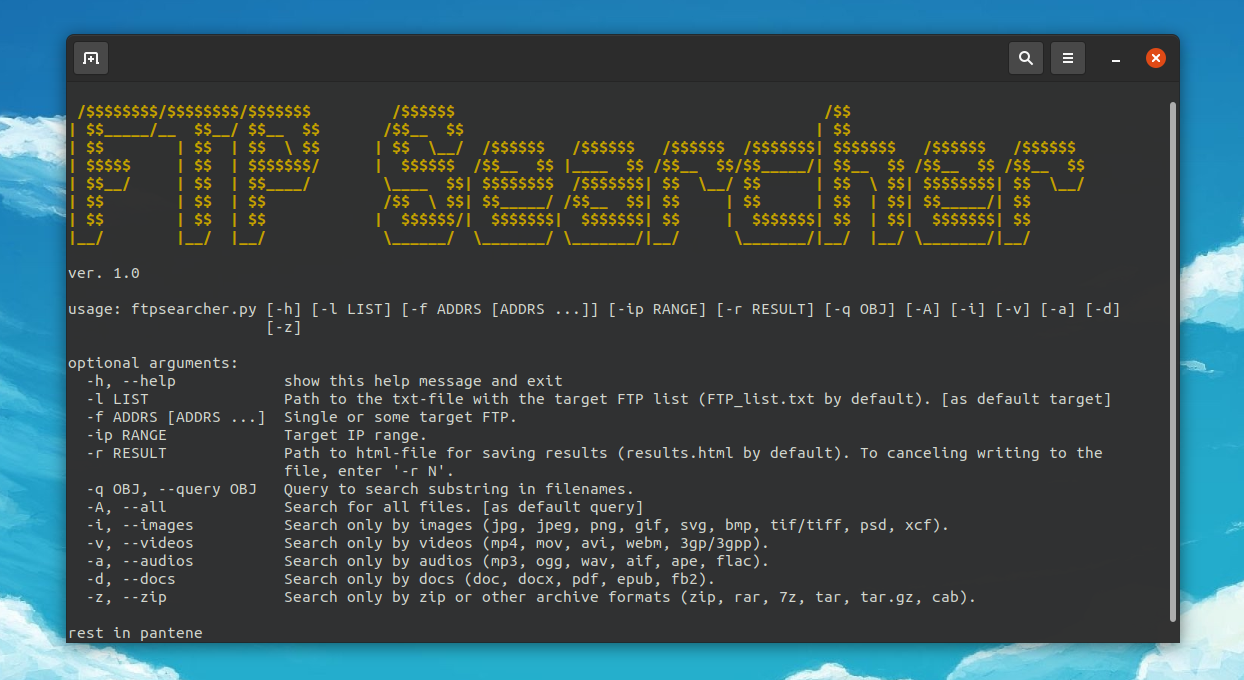
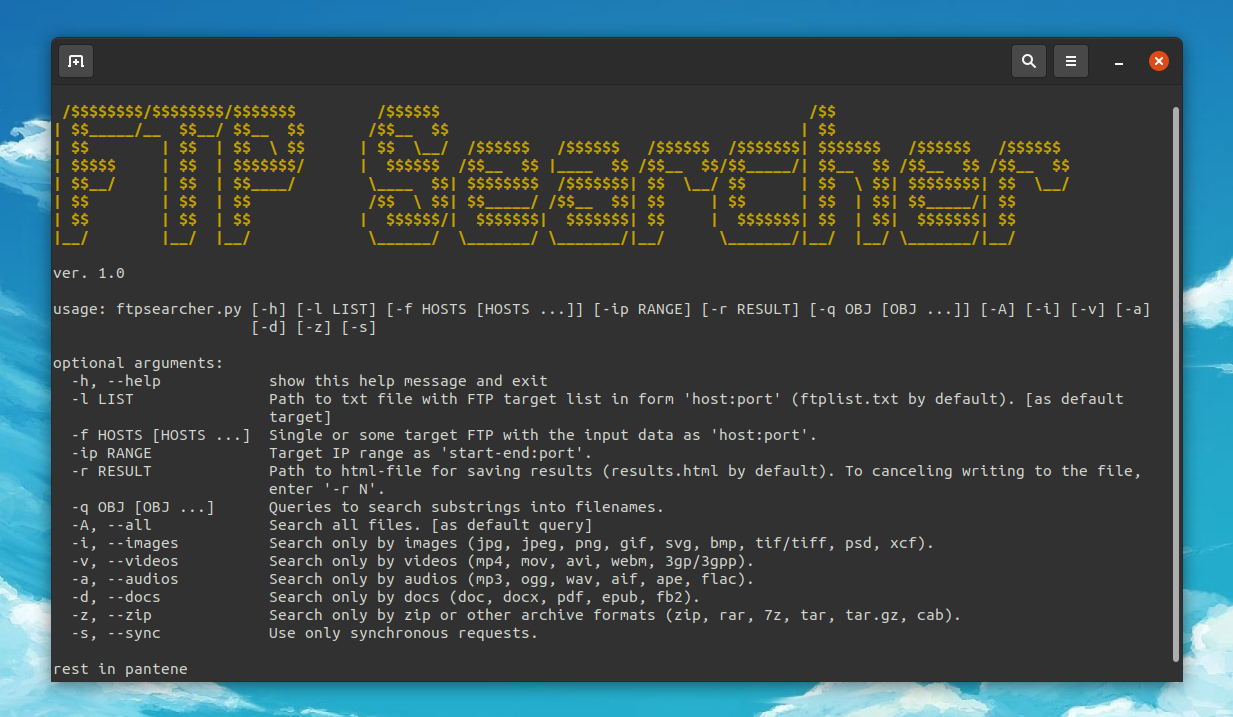
Update

Changed region(s): [[0.0, 0.0309, 1.0, 1.0], [0.9862, 0.9882, 1.0, 1.0]]

diff --git a/ftpsearcher.py b/ftpsearcher.py
@@ -11,16 +11,16 @@ from colorama import Fore, Style, init
 def get_args():
     print("ver. 1.0\n")
     parser = argparse.ArgumentParser(epilog="rest in pantene")
-    parser.add_argument("-l", type=str, dest="list", default="FTP_list.txt",
-            help="Path to the txt-file with the target FTP list (FTP_list.txt by default). [as default target]")
-    parser.add_argument("-f", type=str, dest="addrs", default=False, nargs="+",
-            help="Single or some target FTP.")
+    parser.add_argument("-l", type=str, dest="list", default="ftplist.txt",
+            help="Path to txt file with FTP target list in form 'host:port' (ftplist.txt by default). [as default target]")
+    parser.add_argument("-f", type=str, dest="hosts", default=False, nargs="+",
+            help="Single or some target FTP with the input data as 'host:port'.")
     parser.add_argument("-ip", dest="range", type=str, default=False,
-            help="Target IP range.")
+            help="Target IP range as 'start-end:port'.")
     parser.add_argument("-r", dest="result", type=str, default="results.html",
             help="Path to html-file for saving results (results.html by default). To canceling writing to the file, enter '-r N'.")
-    parser.add_argument("-q", "--query", dest="obj", type=str, default="",
-            help="Query to search substring in filenames.")
+    parser.add_argument("-q", dest="obj", type=str, default="", nargs="+",
+            help="Queries to search substrings into filenames.")
     parser.add_argument("-A", "--all", dest="obj", action="store_const", const="", default="",
             help="Search all files. [as default query]")
     parser.add_argument("-i", "--images", dest="extns", action="store_const", const=('.jpg', '.jpeg', '.png', '.gif', '.svg', '.bmp', '.tif', '.tiff', '.psd', '.xcf'), default=False,
@@ -33,6 +33,8 @@ def get_args():
             help="Search only by docs (doc, docx, pdf, epub, fb2).")
     parser.add_argument("-z", "--zip", dest="extns", action="store_const", const=('.zip', '.rar', '.7z', '.tar', '.tar.gz', '.cab'), default=False,
             help="Search only by zip or other archive formats (zip, rar, 7z, tar, tar.gz, cab).")
+    parser.add_argument("-s", "--sync", dest="sync", action="store_true", default=False,
+            help="Use only synchronous requests.")
     return parser.parse_args()
 
 # searching for a file by filetype with a param or by a substring of an object with a query.
@@ -43,7 +45,10 @@ def searching(name):
     if args.extns != False:
          [results(full_path, syncnumber) for extension in args.extns if full_path.endswith(extension)]
     else:
-        results(full_path, syncnumber) if args.obj in full_path.split("/")[-1] else None
+        if args.obj == '':
+            results(full_path, syncnumber)
+        else:
+            [results(full_path, syncnumber) for object in args.obj if object in full_path.split("/")[-1]]
 
 # ----------------------------------SYNCHRONOUS BLOCK-------------------------------------------------------------------
 # recursively checking all directories that are not files using the MLSD-method, if it can be used.
@@ -83,13 +88,15 @@ def badftp_cycle(maybe_folder):
         pathlist.pop() if len(pathlist) > 1 else None
 
 # connecting to FTP with ftplib.
-def connect(host):
+def connect(host, cnct_port):
     print(Fore.GREEN + "Now it's " + Fore.WHITE + host + Fore.GREEN + " with MLSD.")
     global pathlist
-    pathlist = [host]
+    host_port = host + ":" + str(cnct_port)
+    pathlist = [host_port]
     global ftp
     try:
         ftp = FTP(host, timeout=7)
+        ftp.connect(port=cnct_port)
         ftp.login()
         global syncnumber
         syncnumber = 0
@@ -119,9 +126,9 @@ def connect(host):
 # aioftp connecting and checking.
 async def asyncgetting(host, port, command, asyncnumber):
     try:
-        client = aioftp.Client(socket_timeout=4)
+        client = aioftp.Client()
         async with async_timeout.timeout(4):
-            await client.connect(host)
+            await client.connect(host, port)
             await client.login()
         print(host + Fore.GREEN + " started with asynchronous method: " + Fore.WHITE + command)
         try:
@@ -131,44 +138,48 @@ async def asyncgetting(host, port, command, asyncnumber):
                         for extension in args.extns:
                             if str(path).endswith(extension):
                                 asyncnumber += 1
-                                full_path = str(host) + "/" + str(path)
+                                full_path = str(host) + ":" + str(port) + "/" + str(path)
                                 results(full_path, asyncnumber)
                     else:
-                        if args.obj in str(path).split("/")[-1]:
+                        if args.obj == '':
                             asyncnumber += 1
-                            full_path = str(host) + "/" + str(path)
+                            full_path = str(host) + ":" + str(port) + "/" + str(path)
                             results(full_path, asyncnumber)
+                        for object in args.obj:
+                            if object in str(path).split("/")[-1]:
+                                asyncnumber += 1
+                                full_path = str(host) + ":" + str(port) + "/" + str(path)
+                                results(full_path, asyncnumber)
             print(host + Fore.GREEN + " was getted.")
 
 # exception handling.
         except aioftp.StatusCodeError as iner:
             if str(iner.received_codes) == "('500',)":
                 if str(iner.info) == "[' Unknown command.']":
-                    print(Fore.GREEN + "MLSD is not supported on server " + Fore.WHITE + host + Fore.GREEN + " Trying to use asynchronous LIST.")
-                    await asyncgetting(host, 21, 'LIST', 0)
+                    print(Fore.GREEN + "MLSD is not supported on server " + Fore.WHITE + host + ":" + str(port) + Fore.GREEN + " Trying to use asynchronous LIST.")
+                    await asyncgetting(host, port, 'LIST', 0)
                 elif "ommand not underst" in str(iner.info):
-                    print(Fore.GREEN + "Asynchronous methods is not available on server " + Fore.WHITE + host + Fore.GREEN + " Trying to use synchronous MLSD.")
-                    connect(host)
+                    print(Fore.GREEN + "Asynchronous methods is not available on server " + Fore.WHITE + host + ":" + str(port) + Fore.GREEN + " Trying to use synchronous MLSD.")
+                    connect(host, port)
                 else:
                     print(iner)
             elif str(iner.received_codes) == "('550',)":
-                print(Fore.GREEN + "Error 550 (Can't check for file existence) with server " + Fore.WHITE + host + Fore.GREEN + ". Trying to use synchronous MLSD.")
-                connect(host)
+                print(Fore.GREEN + "Error 550 (Can't check for file existence) with server " + Fore.WHITE + host + ":" + str(port) + Fore.GREEN + ". Trying to use synchronous MLSD.")
+                connect(host, port)
             else:
                 print(iner)
     except aioftp.StatusCodeError as exer:
-        print(str(exer))
         if str(exer.received_codes) == "('530',)":
-            print(Fore.GREEN + "Login authentication failed onto " + Fore.WHITE + host)
+            print(Fore.GREEN + "Login authentication failed onto " + Fore.WHITE + host + ":" + str(port))
         else:
             print(exer)
     except gaierror:
-        print(host + Fore.RED + " not responding.")
+        print(host + ":" + str(port) + Fore.RED + " not responding.")
     except OSError as err:
         if str(err) == "timed out":
-            print(host + Fore.RED + " not responding.")
+            print(host + ":" + str(port) + Fore.RED + " not responding.")
     except asyncio.TimeoutError:
-        print(host + Fore.RED + " not responding.")
+        print(host + ":" + str(port) + Fore.RED + " not responding.")
     except KeyboardInterrupt:
         print(Fore.RED + "\nYou have interrupted host scanning. Move to the next one.")
 # ----------------------------------------------------------------------------------------------------------------------
@@ -178,9 +189,18 @@ def unpack_list(list):
     try:
         flist = open(list, "r")
         liststr = flist.read().split('\n')
-        for string in liststr:
-            if string != "":
-                tasks.append(asyncgetting(string, 21, "MLSD", 0))
+        if args.sync == True:
+            for string in liststr:
+                if string != "":
+                    host, *port = string.split(":")
+                    port = ([int(port) for port in port]) if port != [] else [21]
+                    connect(host, *port)
+        else:
+            for string in liststr: # repetition to decrease O(n).
+                if string != "":
+                    host, *port = string.split(":")
+                    port = ([int(port) for port in port]) if port != [] else [21]
+                    tasks.append(asyncgetting(host, *port, "MLSD", 0))
         flist.close()
     except FileNotFoundError:
         print(Fore.RED + "File " + Fore.WHITE + list + Fore.RED + " not found.")
@@ -188,20 +208,22 @@ def unpack_list(list):
         print(Fore.RED + "Unable to open results file, but file " + Fore.WHITE + list + Fore.RED + " was found. Check your privileges.")
 
 # opening FTP from ip-range.
-def unpack_range(iprange):
+def unpack_range(range_port):
     import ipaddress
     import struct
+    iprange, *port = range_port.split(':')
+    port = ([int(port) for port in port]) if port != [] else [21]
     try:
         start, end = iprange.split('-')
         start = struct.unpack('>I', socket.inet_aton(start))[0]
         end = struct.unpack('>I', socket.inet_aton(end))[0]
-        addrs = [socket.inet_ntoa(struct.pack('>I', i)) for i in range(start, end)]
-        for addr in addrs:
-            try:
-                tasks.append(asyncgetting(addr, 21, "MLSD", 0))
-            except KeyboardInterrupt:
-                print(Fore.RED + "\nYou have interrupted on the " + Fore.WHITE + addr + Fore.RED + " server. Move on the next.")
-                continue
+        hosts = [socket.inet_ntoa(struct.pack('>I', i)) for i in range(start, end)]
+        if args.sync == True:
+            for host in hosts:
+                connect(host, *port)
+        else:
+            for host in hosts:
+                tasks.append(asyncgetting(host, *port, "MLSD", 0))
     except ValueError:
         print(Fore.RED + "IP-range must be separeted by '-' character.")
 
@@ -238,29 +260,36 @@ def main():
             print(Fore.RED + "File" + Fore.WHITE + args.result + Fore.RED + " not found.")
         except PermissionError:
             print(Fore.RED + "Unable to open results file, but file " + Fore.WHITE +  args.result + Fore.RED + " was found. Check your privileges.")
-    if args.addrs != False:
-        args.range = False
+    if args.hosts != False: # for single or some target FTP.
         args.list = False
         print(Style.DIM + str(args)[10:-1] + "\n")
-        [tasks.append(asyncgetting(addr, 21, "MLSD", 0)) for addr in args.addrs] # for single or some target FTP.
-    elif args.range != False:
-        args.addrs = False
+        if args.sync == True:
+            for host_port in args.hosts:
+                host, *port = host_port.split(":")
+                port = ([int(port) for port in port]) if port != [] else [21]
+                connect(host, *port)
+        else:
+            for host_port in args.hosts: # repetition to decrease O(n).
+                host, *port = host_port.split(":")
+                port = ([int(port) for port in port]) if port != [] else [21]
+                tasks.append(asyncgetting(host, *port, "MLSD", 0))
+    elif args.range != False: # for IP-range.
         args.list = False
         print(Style.DIM + str(args)[10:-1] + "\n")
-        unpack_range(args.range) # for IP-range.
-    else:
+        unpack_range(args.range)
+    else: # for the list in file.
         print(Style.DIM + str(args)[10:-1] + "\n")
-        unpack_list(args.list) # for the list in file.
+        unpack_list(args.list)
+    if args.sync == False:
+        ioloop = asyncio.get_event_loop()
 
-    ioloop = asyncio.get_event_loop()
+        try:
+            ioloop.run_until_complete(asyncio.gather(*tasks))
+            print(Fore.YELLOW + Style.BRIGHT + "Connections completed.")
+        except KeyboardInterrupt:
+            print(Fore.RED + "\nYou have interrupted the FTP Searcher.")
 
-    try:
-        ioloop.run_until_complete(asyncio.gather(*tasks))
-        print(Fore.YELLOW + Style.BRIGHT + "Connections completed.")
-    except KeyboardInterrupt:
-        print(Fore.RED + "\nYou have interrupted the FTP Searcher.")
-
-    ioloop.close()
+        ioloop.close()
 
 if __name__ == '__main__':
     main()
